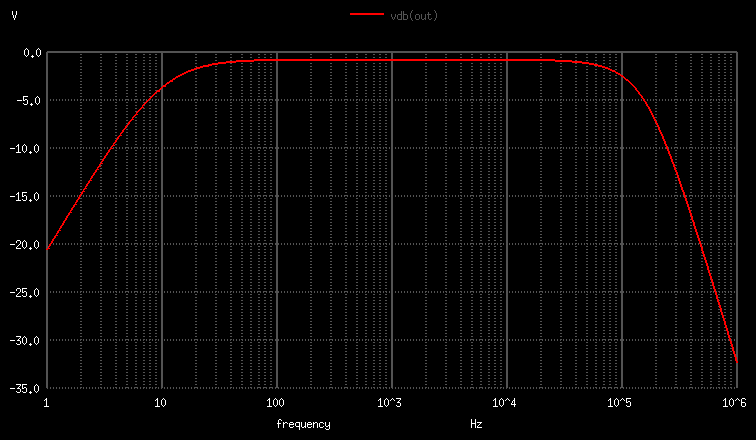
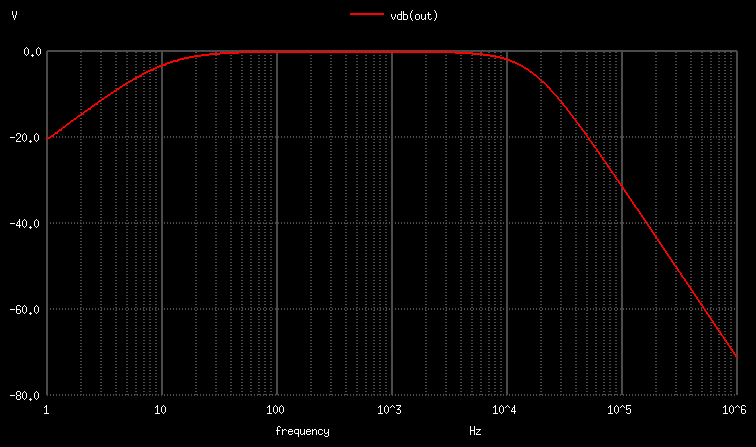
Change filter cut-off frequency to 10kHz

diff --git a/README.md b/README.md
@@ -2,7 +2,7 @@
 
 На модуле установлены два АЦП __MCP3201__ (интерфейс SPI), источник опорного
 напряжения __REF3030__ с напряжением 3.0В и антиалиасинговые фильтры с полосой
-10Гц-100кГц. Распиновка разъема PMOD стандартная:
+10Гц-10кГц. Распиновка разъема PMOD стандартная:
 
 | Pin | Signal | Dir. |
 |-----|--------|------|
